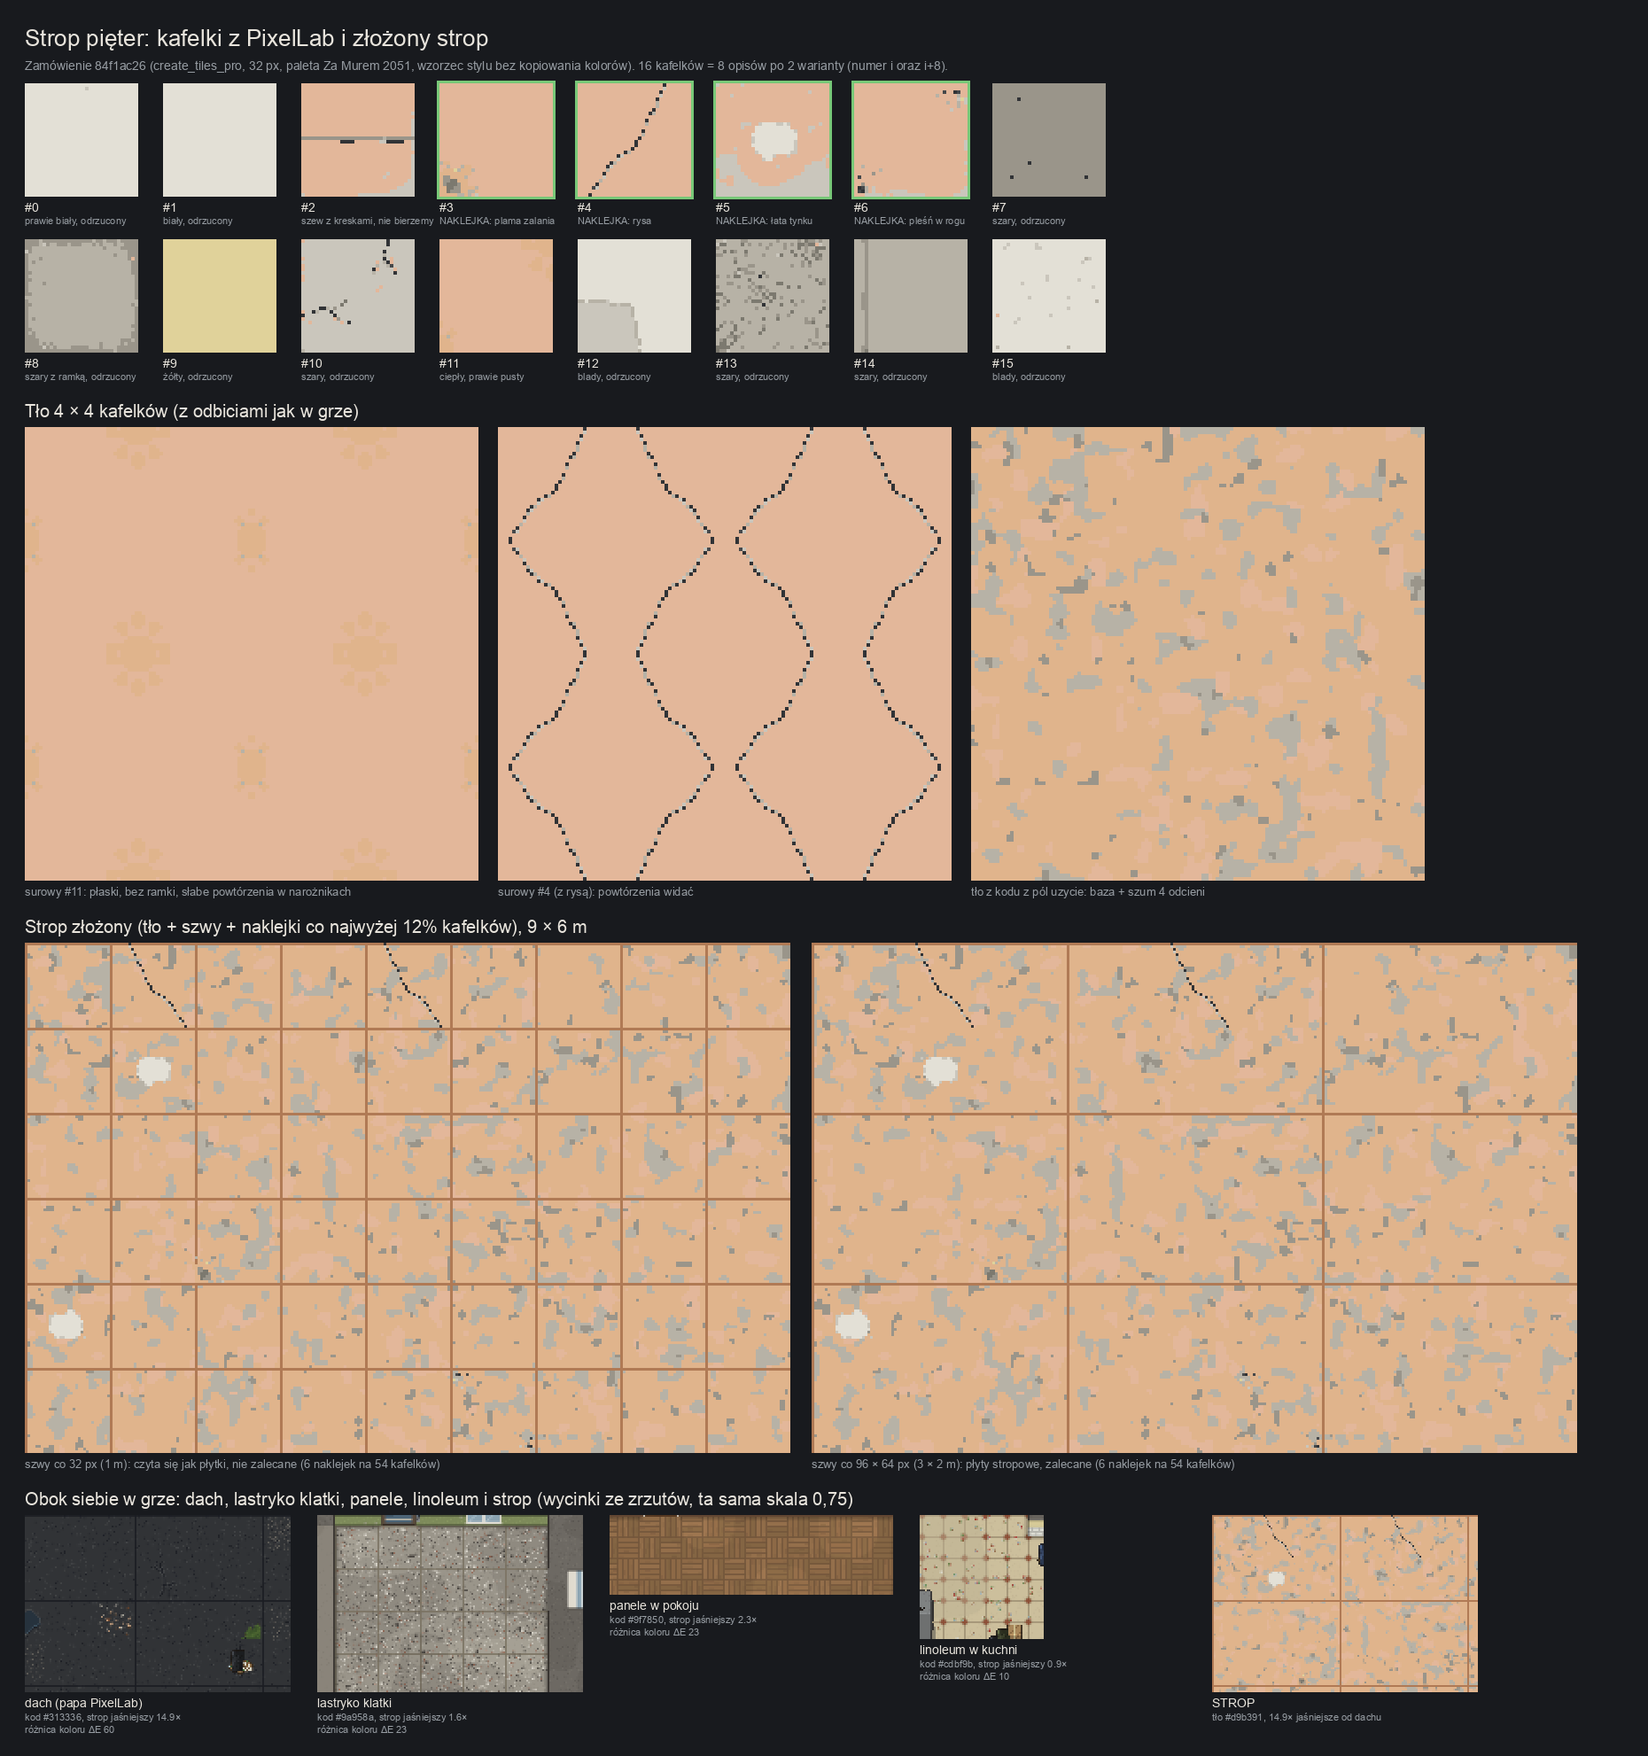
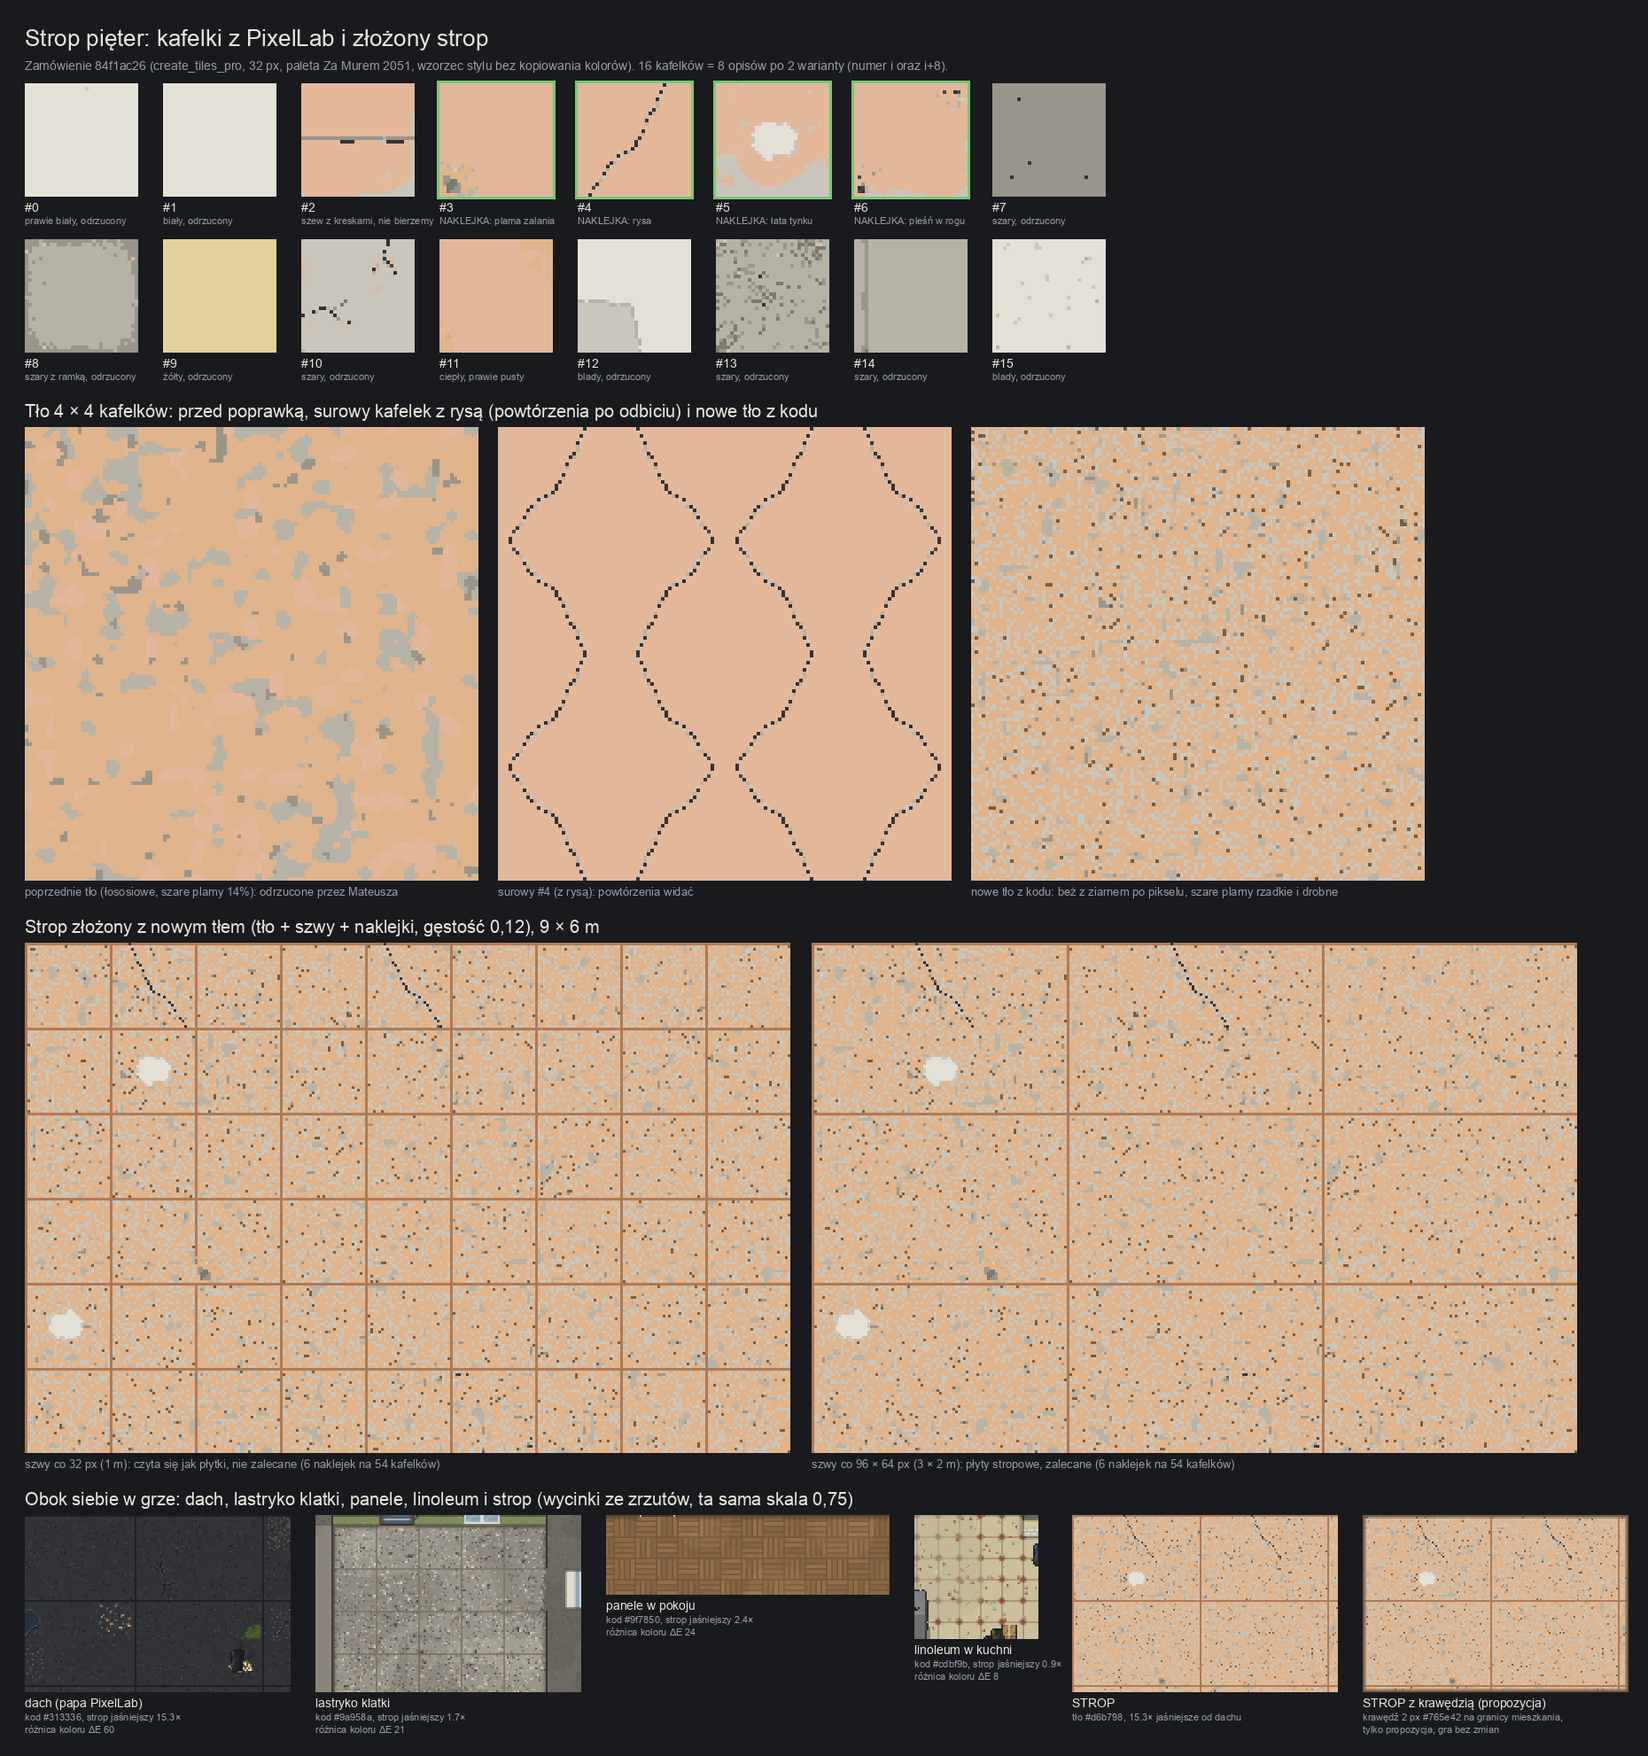
Strop pięter: tło bardziej beżowe, drobne szare plamy, status zatwierdzony
Po uwagach Mateusza (19.10.2026) poprawka tylko w polach uzycie, bez nowego
zamówienia w PixelLab: ziarno #cac6bc po pikselu (28%) zlewa się z bazą
#e0b48c w beż, szare plamy #b7b2a6 i #9a958a spadły z 14% i 3% do 5% i 1%
przy kracie 3 i 2 px, do tego 2% pikseli #765e42. Średnie tło z #d9b391
(217,179,145, R-G 37,6) na #d6b798 (214,183,152, R-G 31,0), czyli +9, +7, +12
względem #cdb08c. DeltaE do linoleum 10,1 -> 7,5, do wytartych paneli
7,2 -> 8,9, więc w uzycie.krawedz propozycja ciemniejszej krawędzi (tylko
propozycja). Status strop-tynk zatwierdzony z cytatem, atlasy bez zmian.
Zestawienia przerobione, dziennik i PIXELLAB.md zaktualizowane, w Zaparkowane
wymaganie Mateusza do pięter (pokoje i ściany). Kod gry bez zmian.

diff --git a/docs/PIXELLAB.md b/docs/PIXELLAB.md
@@ -169,32 +169,36 @@ Czego brakuje, żeby gra to pokazała:
 
 ## Strop pięter (19.10.2026)
 
-Gra dostanie piętra: przełącznik w pasku u góry tnie budynki na wybranej wysokości, klatka schodowa jest widoczna, a mieszkania za zamkniętymi drzwiami zasłania strop. Mateusz: „bedzie ‘strop’ cos innego kolory niz dach”, z makiety wybrał „Ciepły tynk” (beż jak sufit w mieszkaniu, w makiecie `#cdb08c`). Zamówione dwa razy `create_tiles_pro` 32 px (po 10 generacji, razem 20 z abonamentu, 0 USD, saldo po obu 1301 z 2000): `strop-tynk-v1` (odrzucone, szare) i `strop-tynk` (poprawka, `gotowy`, `assets/raw/strop-tynk/`). Po 16 kafelków, czyli po dwa na każdy z ośmiu opisów (numer i oraz i+8). Zestawienia: `docs/postep/pietra-strop-arkusz.png` (kafelki, tło 4 × 4 z odbiciami, strop z oboma wariantami szwów, obok dach, lastryko, panele i linoleum) i `docs/postep/pietra-strop-kadr.png` (prawdziwy zrzut Przymorza z `npm run shots -- przymorze-przekroj` ze stropem nałożonym w skrypcie pomocniczym na mieszkania, klatki i ściany zostają). Gra stropu nie używa: czeka na zatwierdzenie Mateusza i na podpięcie.
+Gra dostanie piętra: przełącznik w pasku u góry tnie budynki na wybranej wysokości, klatka schodowa jest widoczna, a mieszkania za zamkniętymi drzwiami zasłania strop. Mateusz: „bedzie ‘strop’ cos innego kolory niz dach”, z makiety wybrał „Ciepły tynk” (beż jak sufit w mieszkaniu, w makiecie `#cdb08c`). Zamówione dwa razy `create_tiles_pro` 32 px (po 10 generacji, razem 20 z abonamentu, 0 USD, saldo po obu 1301 z 2000): `strop-tynk-v1` (odrzucone, szare) i `strop-tynk` (poprawka, `zatwierdzony` 19.10.2026, `assets/raw/strop-tynk/`). Po 16 kafelków, czyli po dwa na każdy z ośmiu opisów (numer i oraz i+8). Zestawienia: `docs/postep/pietra-strop-arkusz.png` (kafelki, tło 4 × 4 z odbiciami, strop z oboma wariantami szwów, obok dach, lastryko, panele i linoleum) i `docs/postep/pietra-strop-kadr.png` (prawdziwy zrzut Przymorza z `npm run shots -- przymorze-przekroj` ze stropem nałożonym w skrypcie pomocniczym na mieszkania, klatki i ściany zostają). Gra stropu nie używa: czeka na podpięcie po projekcie pięter.
+
+Mateusz zatwierdził wariant 19.10.2026 (słowa przekazane przez sesję „Kafelki stropu PixelLab”): „Bierzemy polecany (tło z kodu, szwy 96×64, naklejki #3–#6, gęstość 0,12), ale tło bardziej beżowe niż łososiowe i szare plamy rzadsze i drobniejsze. Poprawka tylko w polach uzycie, bez nowego zamówienia.” Poprawka zrobiona w polach `uzycie`, bez nowych generacji (patrz niżej, „Poprawka tła”).
 
 Czego nauczyły:
 - Na fasadzie bloku z kotwicy nie ma okna 32 × 32 bez okien i szwów (płyta między oknami ma najwyżej 12 × 5 px), więc wzorzec stylu to 32 × 32 w kolorze płyty fasady `#9a958a` (`assets/wejscia/strop-wzorzec-32.png`), a nie wycinek. Współrzędne źródła są w manifeście.
 - `create_tiles_pro` ze wzorcem stylu kopiuje jego kolory mimo `palette`. Pierwsze zamówienie wyszło więc szare (`#b7b2a6`, o 22 za mało czerwieni i 26 za dużo niebieskiego względem `#cdb08c`). Pomogło `style_options` z `color_palette: false` i dopisek „sandy peach beige colour” w opisie.
-- Kafelek w kolorze `#cdb08c` z tej palety nie powstanie: najbliższy beż to `#e0b48c`, a PixelLab wybrał `#e3b79a` („skóra”, 227,183,154, o 22 za dużo czerwieni). Średnią w granicach ±14 daje dopiero tło z kodu: baza `#e0b48c` z plamkami `#b7b2a6` (14%), `#e3b79a` (12%) i `#9a958a` (3%), średnio `#d9b391` (216,179,145, różnica +12, +3, +5).
-- Kafelki są płaskie (1 do 3 kolorów), więc „very faint grain” szumu nie daje. Tło rysuje kod z szumem wartościowym od współrzędnych świata (przepis w `uzycie` w manifeście), a z kafelków zostają naklejki: rysa (#4), plama zalania (#3), łata jaśniejszego tynku (#5) i pleśń (#6), z kluczem przezroczystości `#e3b79a`. Gęstość 0,12 daje około 6 naklejek na 54 kafelki.
+- Kafelek w kolorze `#cdb08c` z tej palety nie powstanie: najbliższy beż to `#e0b48c`, a PixelLab wybrał `#e3b79a` („skóra”, 227,183,154, o 22 za dużo czerwieni). Średnią w granicach ±14 daje dopiero tło z kodu.
+- Kafelki są płaskie (1 do 3 kolorów), więc „very faint grain” szumu nie daje. Tło rysuje kod od współrzędnych świata (przepis w `uzycie` w manifeście), a z kafelków zostają naklejki: rysa (#4), plama zalania (#3), łata jaśniejszego tynku (#5) i pleśń (#6), z kluczem przezroczystości `#e3b79a`. Gęstość 0,12 daje około 6 naklejek na 54 kafelki.
 - Jasnej ramki jak na dachu tym razem nie ma (jedyny wyjątek to ciemna obwódka w #8), ale naklejki #5 i #6 mają pasy przy krawędzi, więc `wnetrze_wariantu` przycina je osobno. Surowe kafelki odbite 4 × 4 pokazują powtórzenia (rysa układa się w girlandę, narożniki #11 w kwiatki), więc surowych nie kładziemy jako tła.
 - Opis „plain uniform” i „faded and lighter” dają prawie biały `#e3e0d6`, opis „darker and dustier” szary `#9a958a`. Plama zalania wyszła szara, pleśń to ciemne kropki.
-- Szwy (kod, 1 px `#b07a55`): zalecane 96 × 64 (płyty 3 × 2 m, jak na dachu). Co 32 px (1 m) wygląda jak płytki i dubluje szwy lastryko w klatce.
+- Szwy (kod, 1 px `#b07a55`): 96 × 64 (płyty 3 × 2 m, jak na dachu). Co 32 px (1 m) wygląda jak płytki i dubluje szwy lastryko w klatce.
 
-Pomiary (skrypt pomocniczy poza repo, tło 512 × 512 px z przepisu, luminancja względna WCAG, ΔE CIE76 do średnich kolorów powierzchni z kodu i zrzutów):
+Poprawka tła (19.10.2026, po uwagach Mateusza „za łososiowe, za duże szare plamy”). Pierwsza wersja tła (baza `#e0b48c`, plamy `#b7b2a6` 14% przy kracie 6, `#9a958a` 3% przy kracie 5 i `#e3b79a` 12% przy kracie 7) miała średnią `#d9b391` (217,179,145, R−G 37,6) i duże szare plamy jak kamuflaż. Nowa: baza `#e0b48c` z ziarnem `#cac6bc` po pojedynczym pikselu (28%), które zlewa się optycznie z bazą w beż, rzadkie drobne plamy `#b7b2a6` (5%, krata 3 px) i `#9a958a` (1%, krata 2 px) oraz 2% pikseli `#765e42`, które obniżają czerwień i błękit. Średnia `#d6b798` (214,183,152), czyli +9, +7, +12 względem `#cdb08c` (w granicach ±14), R−G 31,0. Dalej w stronę beżu się nie da: R−G 30 wymaga już +14 w błękicie, czyli granicy ±14, a ziarno `#cac6bc` podnosi błękit najmocniej, więc wybrałem wariant z zapasem 1,9 w błękicie. Przepis (kolory, udziały, rodzaj i krata) jest w `uzycie.szum`, poprzedni zapis w `uzycie.szum.poprzednio`.
 
-| powierzchnia | średni kolor | strop jaśniejszy razy | ΔE |
-| --- | --- | --- | --- |
-| dach z PixelLab (papa) | `#313336` | 14,9 | 60 |
-| dach z kodu: papa | `#585450` | 5,5 | 45 |
-| dach z kodu: żwir | `#9a968d` | 1,6 | 24 |
-| dach z kodu: dachówka | `#a24f36` | 3,6 | 40 |
-| dach z kodu: blacha | `#767c81` | 2,5 | 37 |
-| lastryko klatki | `#9a958a` | 1,6 | 23 |
-| panele | `#9f7850` | 2,3 | 23 |
-| panele wytarte | `#c4a47c` | 1,2 | 7 |
-| linoleum kuchni | `#cdbf9b` | 0,9 | 10 |
+Pomiary po poprawce (skrypt pomocniczy poza repo, tło 512 × 512 px z przepisu, luminancja względna WCAG, ΔE CIE76 do średnich kolorów powierzchni z kodu i zrzutów):
 
-Warunek z zamówienia (co najmniej 2,5 razy jaśniejszy od dachu `#313336`) spełniony z zapasem, 14,9 razy; różnica ciepła: R−B strop 72, dach −5, lastryko 16. Słabe miejsce to wytarte panele i linoleum: strop jest bliski im kolorem (makieta Mateusza też to zaznaczała), więc odróżnia go siatka szwów 3 × 2 m i szary kurz, a nie sam kolor. Jaśniejsza baza (`#e3b79a` zamiast `#e0b48c`) podnosi ΔE do 10,5 (panele wytarte) i 10,7 (linoleum), czyli niewiele, więc jeśli w grze będą się mylić, lepiej pomoże ciemniejsza krawędź na granicy mieszkania i wyraźniejsze szwy.
+| powierzchnia | średni kolor | strop jaśniejszy razy | ΔE po | ΔE przed |
+| --- | --- | --- | --- | --- |
+| dach z PixelLab (papa) | `#313336` | 15,3 | 59,6 | 60,4 |
+| dach z kodu: papa | `#585450` | 5,6 | 43,9 | 44,8 |
+| dach z kodu: żwir | `#9a968d` | 1,6 | 21,2 | 23,6 |
+| dach z kodu: dachówka | `#a24f36` | 3,7 | 42,8 | 40,4 |
+| dach z kodu: blacha | `#767c81` | 2,5 | 34,6 | 36,7 |
+| lastryko klatki | `#9a958a` | 1,7 | 20,6 | 22,9 |
+| panele | `#9f7850` | 2,4 | 24,5 | 22,7 |
+| panele wytarte | `#c4a47c` | 1,3 | 8,9 | 7,2 |
+| linoleum kuchni | `#cdbf9b` | 0,9 | 7,5 | 10,1 |
+
+Warunek z zamówienia (co najmniej 2,5 razy jaśniejszy od dachu `#313336`) spełniony z zapasem, 15,3 razy; różnica ciepła: R−B strop 61 (było 72), dach −5, lastryko 16. Słabe miejsce to linoleum kuchni i wytarte panele: po zbeżowieniu ΔE do linoleum spadło z 10,1 do 7,5, a do wytartych paneli wzrosło z 7,2 do 8,9, więc strop odróżnia od nich głównie siatka szwów 3 × 2 m, a nie kolor (makieta Mateusza też to zaznaczała). Dlatego w `uzycie.krawedz` jest propozycja ciemniejszej krawędzi stropu na granicy mieszkania (2 px `#765e42`, podgląd w arkuszu); gra jej nie używa, decyzja przy podpinaniu pięter.
 
 ## Pierwsza fala assetów (wycinek pionowy)
 

diff --git a/docs/POSTEP.md b/docs/POSTEP.md
@@ -900,9 +900,11 @@ Gałąź `m3-budynki` (wpis wyżej) weszła scaleniem; konflikt tylko w tym dzie
 
 ### Strop pięter z PixelLab, 19.10.2026 (gałąź `m3-strop` od `pelna-gra` 9d10adf, lokalnie, nic nie wypchnięte)
 
-Mateusz z makiety wybrał strop „Ciepły tynk” (beż jak sufit w mieszkaniu, `#cdb08c`): na piętrach zamknięte mieszkania zasłania strop o innym kolorze niż dach, lastryko klatki i podłogi. Sesja od assetów zamówiła i zarejestrowała kafelki, niczego nie podpięła. Dwa zamówienia `create_tiles_pro` 32 px po 10 generacji (razem 20 z abonamentu, 0 USD, saldo 1301 z 2000): pierwsze wyszło szare (wzorzec stylu przeniósł szary odcień fasady), drugie, ze `style_options` bez kopiowania kolorów, ma ciepłe kafelki. Pliki w `assets/raw/strop-tynk/` (poprawka) i `assets/raw/strop-tynk-v1/` (odrzucone), wpisy `strop-tynk` (`gotowy`) i `strop-tynk-v1` (`odrzucony`) w grupie `pietra`, wzorzec stylu w `assets/wejscia/strop-wzorzec-32.png`.
+Mateusz z makiety wybrał strop „Ciepły tynk” (beż jak sufit w mieszkaniu, `#cdb08c`): na piętrach zamknięte mieszkania zasłania strop o innym kolorze niż dach, lastryko klatki i podłogi. Sesja od assetów zamówiła i zarejestrowała kafelki, niczego nie podpięła. Dwa zamówienia `create_tiles_pro` 32 px po 10 generacji (razem 20 z abonamentu, 0 USD, saldo 1301 z 2000): pierwsze wyszło szare (wzorzec stylu przeniósł szary odcień fasady), drugie, ze `style_options` bez kopiowania kolorów, ma ciepłe kafelki. Pliki w `assets/raw/strop-tynk/` (poprawka) i `assets/raw/strop-tynk-v1/` (odrzucone), wpisy `strop-tynk` i `strop-tynk-v1` w grupie `pietra`, wzorzec stylu w `assets/wejscia/strop-wzorzec-32.png`. Zestawienia: `docs/postep/pietra-strop-arkusz.png` i `docs/postep/pietra-strop-kadr.png` (prawdziwy zrzut Przymorza ze stropem nałożonym na mieszkania w skrypcie pomocniczym). Szczegóły i pomiary: `docs/PIXELLAB.md`, sekcja „Strop pięter”.
 
-Wynik: kafelki są płaskie, więc tło stropu rysuje kod z samego koloru z szumem (baza `#e0b48c` z plamkami `#b7b2a6`, `#e3b79a` i `#9a958a`, średnio `#d9b391`, czyli +12, +3, +5 względem `#cdb08c`), szwy 96 × 64 z kodu, a z PixelLab zostają cztery naklejki: rysa, plama zalania, łata tynku i pleśń, gęstość 0,12. Strop jest 14,9 razy jaśniejszy od dachu `#313336`. Słabe miejsce: kolor bliski wytartym panelom (ΔE 7) i linoleum (ΔE 10), więc odróżnia go głównie siatka szwów i kurz. Zestawienia: `docs/postep/pietra-strop-arkusz.png` i `docs/postep/pietra-strop-kadr.png` (prawdziwy zrzut Przymorza ze stropem nałożonym na mieszkania w skrypcie pomocniczym). Szczegóły i pomiary: `docs/PIXELLAB.md`, sekcja „Strop pięter”. Czeka na decyzję Mateusza: który wariant stropu bierzemy. Dopiero po niej i po projekcie pięter powstanie podpięcie (kod rysujący, `tools/atlasy.ts`, `public/assets/`).
+Kafelki są płaskie, więc tło stropu rysuje kod z samego koloru z ziarnem, szwy 96 × 64 z kodu, a z PixelLab zostają cztery naklejki: rysa, plama zalania, łata tynku i pleśń, gęstość 0,12. Koordynator scalił gałąź do `pelna-gra` (d30ee71) z pierwszą wersją tła; gra stropu nie używa.
+
+Mateusz zatwierdził wariant 19.10.2026 (słowa przez sesję „Kafelki stropu PixelLab”): „Bierzemy polecany (tło z kodu, szwy 96×64, naklejki #3–#6, gęstość 0,12), ale tło bardziej beżowe niż łososiowe i szare plamy rzadsze i drobniejsze. Poprawka tylko w polach uzycie, bez nowego zamówienia.” Poprawka tła w polach `uzycie`, bez nowych generacji: ziarno `#cac6bc` po pikselu (28%) zlewa się z bazą `#e0b48c` w beż, szare plamy spadły z 14% i 3% do 5% i 1% przy kracie 3 i 2 px, do tego 2% pikseli `#765e42`. Średnie tło z `#d9b391` (217,179,145, R−G 37,6) na `#d6b798` (214,183,152, R−G 31,0), czyli +9, +7, +12 względem `#cdb08c`, w granicach ±14 (R−G 30 wymagałoby +14 w błękicie). Strop jest 15,3 razy jaśniejszy od dachu `#313336`. ΔE do linoleum spadło z 10,1 do 7,5, a do wytartych paneli wzrosło z 7,2 do 8,9, więc w `uzycie.krawedz` jest propozycja ciemniejszej krawędzi na granicy mieszkania (tylko propozycja). Status `strop-tynk` to `zatwierdzony`, `npm run atlasy -- --sprawdz` dalej czysty (atlasy biorą tylko assety, dla których mają kod składania). Podpięcie (kod rysujący, `tools/atlasy.ts`, `public/assets/`) dopiero po projekcie pięter; ocena koloru przez Mateusza przy podpięciu.
 
 ## Następne
 
@@ -1053,6 +1055,7 @@ Mateusz rano: lepiej wdrożyć na serwer w projekcie cergo (więcej miejsca i mo
   - tasowanie przez `sort` i `Math.hypot`/`sin`/`cos` mogą dawać różne wyniki w różnych przeglądarkach; ważne, gdy zapisy będą przechodzić między przeglądarkami. Tasowanie w wydarzeniach zarządu poprawione 17.10.2026 (CI na Node 24); `Math.hypot`/`sin`/`cos` w decyzjach symulacji do sprawdzenia.
 
 ## Zaparkowane
+- Piętra, pokoje i ściany (wymaganie Mateusza, 19.10.2026: „Tylko pamietajmy o pokojach na tych pietrach, czyli sciany i rozkład tez jakiś sensowny pownien być”): piętra mają mieć sensowne ściany i pokoje, czyli piętro typowe z tego samego szablonu co parter z `src/world/interior.ts` (trzon klatki i ściany nośne w tym samym miejscu, bez wejścia i wiatrołapu, drzwi zewnętrzne jako okna, w domu sypialnie i łazienka nad parterem), deterministycznie z ziarna budynku i numeru piętra, do uwzględnienia w projekcie pięter przed podpięciem stropu.
 - Menu budowy (18.10.2026), po wejściu badań: widok z kłódkami (`BUILD_MENU.showLocked`) i nazwy badań w `TECH_NAMES`, znaczek „NOWE” przy świeżo odblokowanych (potrzebuje stanu „co gracz już widział”), pracownia (miejsce do badań) jako pierwsza budowla projektu badań w zakładce Dom, kolejne zakładki (Jedzenie, Prąd, Obrona) razem z budowlami z gospodarki.
 - Menu budowy, drobiazgi z przeglądu: reset przewinięcia panelu przy otwarciu, przesunięcie `.hint` pod `build-open` jak `.placebar`, nazwa dostępnościowa przycisku ✕ i `aria-controls` zakładek, kolejność reguł `prefers-reduced-motion` na telefonie, asercje angielskiego „Needs research” w testach, Esc i ✕ przez tę samą ścieżkę `onClose`.
 - `siec-menu` w `npm run shots` raz padł pod obciążeniem (kilka sesji naraz): po zajęciu klatki nie było jeszcze znaczników „nasza”, sam scenariusz przechodzi. Dodać czekanie na znaczniki zamiast jednego odczytu (18.10.2026).
